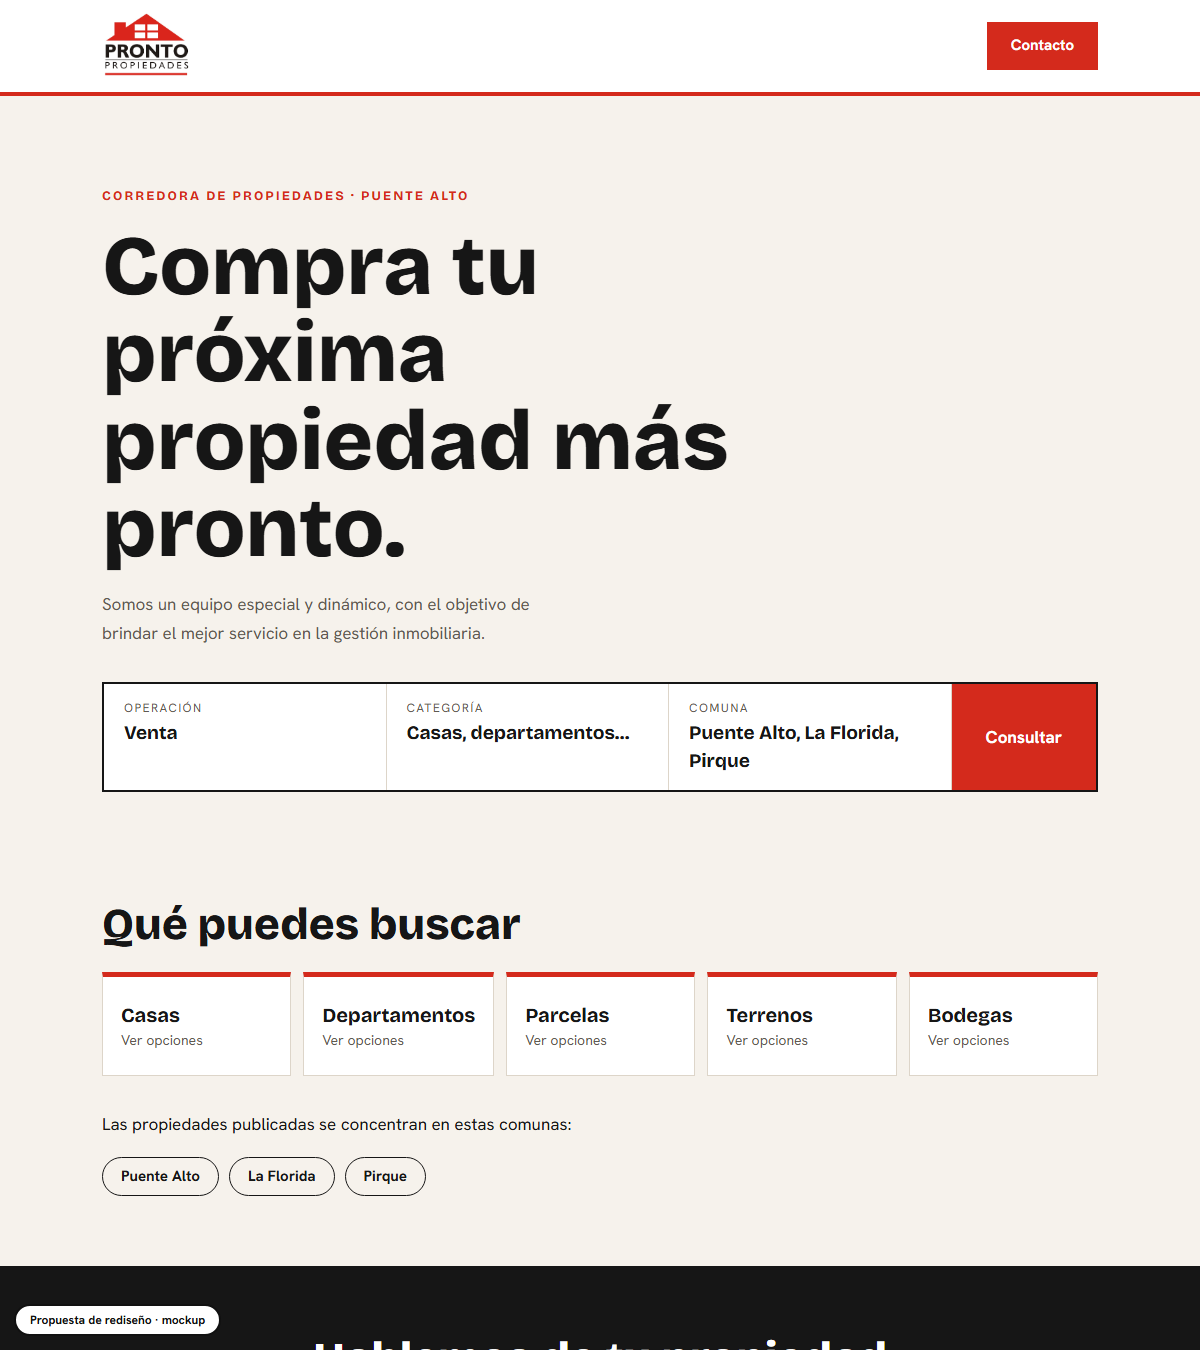
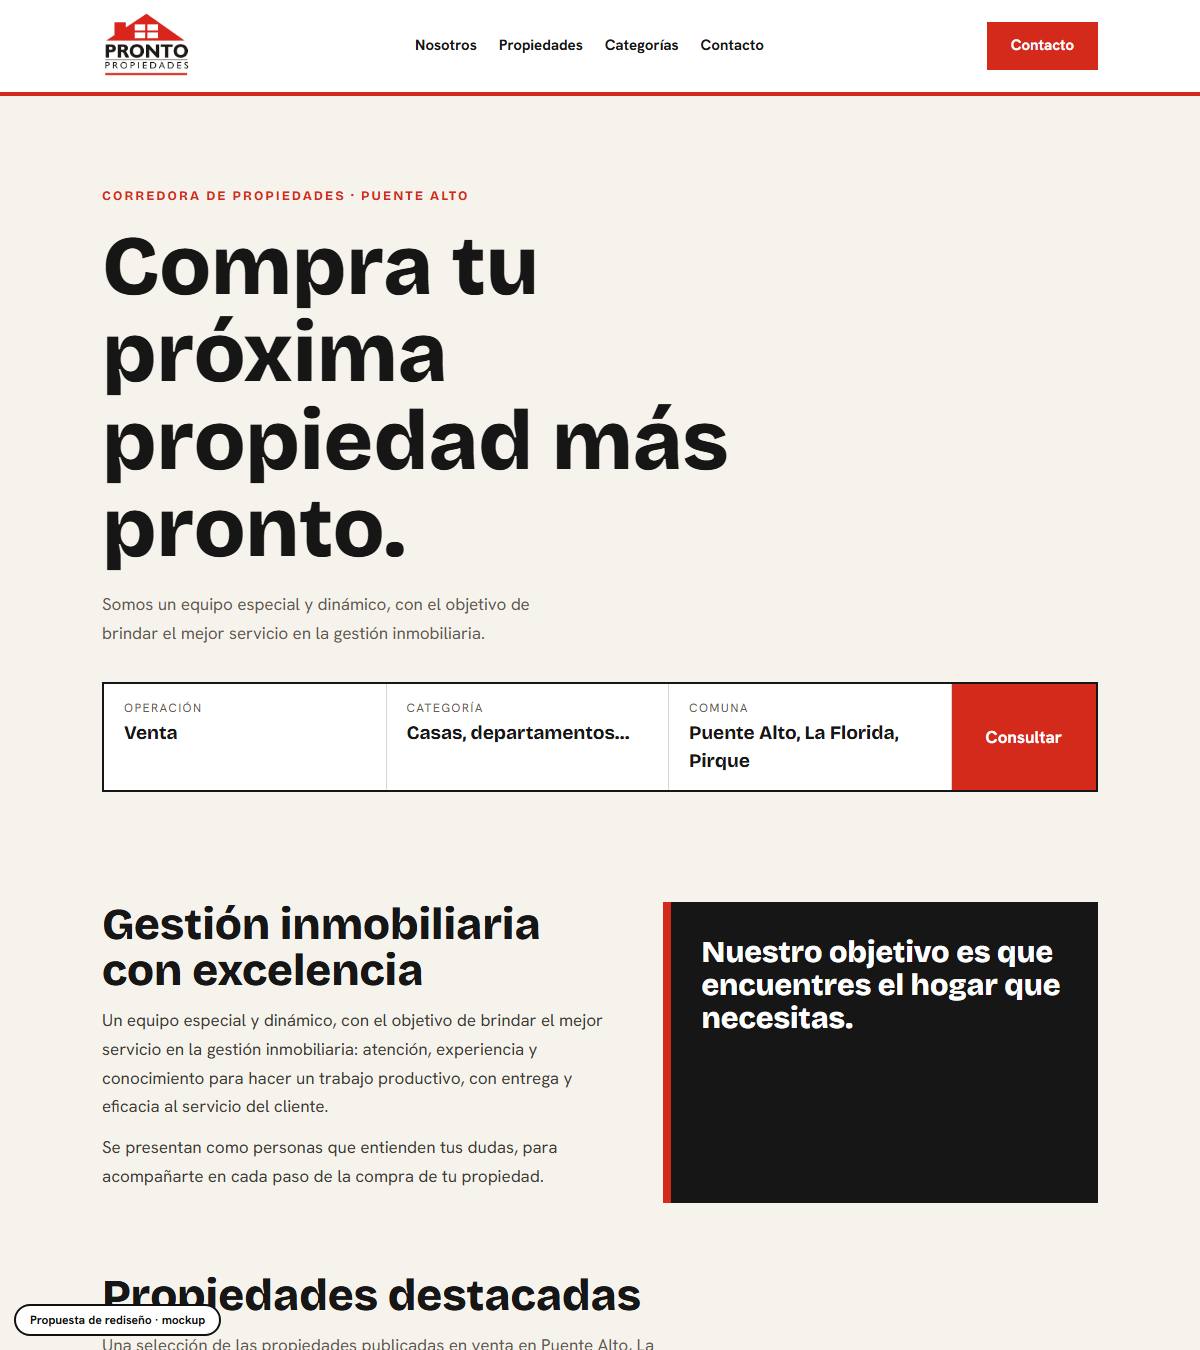
Mockup: pronto-propiedades-puente-alto

diff --git a/pronto-propiedades-puente-alto/index.html b/pronto-propiedades-puente-alto/index.html
@@ -6,12 +6,12 @@
 <link href="https://fonts.googleapis.com/css2?family=Bricolage+Grotesque:wght@500;700;800&family=Hanken+Grotesk:wght@400;500;700&display=swap" rel="stylesheet">
 <style>
 :root{--red:#d42a1c;--ink:#161616;--bone:#f6f2ec;--line:#ddd5c9;--mute:#5f5a52}
-*{box-sizing:border-box;margin:0}html{scroll-behavior:smooth}
+*{box-sizing:border-box;margin:0}html{scroll-behavior:smooth;scroll-padding-top:100px}
 @media(prefers-reduced-motion:reduce){html{scroll-behavior:auto}}
 body{background:var(--bone);color:var(--ink);font:400 17px/1.7 'Hanken Grotesk',sans-serif}
 .wrap{max-width:1040px;margin:0 auto;padding:0 22px}
 h1,h2,h3{font-family:'Bricolage Grotesque',sans-serif;line-height:1.04}
-header{background:#fff;border-bottom:4px solid var(--red)}header .wrap{display:flex;justify-content:space-between;align-items:center;height:92px;gap:12px}
+header{position:sticky;top:0;z-index:20;background:#fff;border-bottom:4px solid var(--red)}header .wrap{display:flex;justify-content:space-between;align-items:center;height:92px;gap:12px}
 header img{height:70px}
 header a.b{background:var(--red);color:#fff;text-decoration:none;padding:11px 24px;font-weight:700;font-size:15px}
 header a.b:hover{background:var(--ink)}
@@ -31,14 +31,16 @@ section{padding:70px 0}h2{font-size:clamp(28px,4.2vw,44px);font-weight:800;margi
 .contact a.l{display:block;font:800 clamp(32px,5.6vw,60px) 'Bricolage Grotesque';color:#fff;text-decoration:none;margin:8px 0}.contact a.l:hover{color:var(--red)}
 .contact p{color:#d6d0c6}
 footer{padding:22px 0 90px;text-align:center;font-size:13px;color:var(--mute)}
-.mock{position:fixed;left:14px;bottom:14px;background:#fff;color:#111;border:2px solid #111;font:700 12px/1 'Hanken Grotesk';padding:8px 14px;border-radius:30px;z-index:9}
+.mock{z-index:30;position:fixed;left:14px;bottom:14px;background:#fff;color:#111;border:2px solid #111;font:700 12px/1 'Hanken Grotesk';padding:8px 14px;border-radius:30px;z-index:9}
 @media(max-width:860px){.finder{grid-template-columns:1fr}.finder a{padding:16px 20px}.finder div{border-right:0;border-bottom:1px solid var(--line)}.cats{grid-template-columns:1fr 1fr}.hero .wrap{padding:52px 22px 20px}}
-</style></head><body>
-<header><div class="wrap"><img src="assets/Pronto-Propiedades-Logo.png" alt="Pronto Propiedades"><a class="b" href="#contacto">Contacto</a></div></header>
+nav{display:flex;gap:22px;font-size:15px;font-weight:700}nav a{color:var(--ink);text-decoration:none}nav a:hover{color:var(--red)}.pg{display:grid;grid-template-columns:repeat(4,1fr);gap:14px;margin-top:24px}.pc{background:#fff;border:1px solid var(--line);border-top:5px solid var(--red);padding:22px 20px;display:flex;flex-direction:column}.pc small{font:700 12px "Hanken Grotesk";letter-spacing:.14em;text-transform:uppercase;color:var(--red)}.pc h3{font-size:19px;margin:6px 0 8px}.pc p{font-size:14.5px;color:var(--mute);flex:1}.pc b{font:800 24px "Bricolage Grotesque";margin-top:12px}.disp{display:inline-block;background:var(--ink);color:#fff;font:700 11px "Hanken Grotesk";letter-spacing:.12em;text-transform:uppercase;padding:3px 10px;margin-bottom:10px;align-self:flex-start}.note{margin-top:18px;font-size:14px;color:var(--mute)}.abt{display:grid;grid-template-columns:1.2fr 1fr;gap:40px}.abt p{margin-bottom:12px;color:#403b34}.goal{background:var(--ink);color:#fff;padding:34px 30px;font:800 30px/1.1 "Bricolage Grotesque";border-left:8px solid var(--red)}@media(max-width:900px){nav{display:none}.pg{grid-template-columns:1fr 1fr}.abt{grid-template-columns:1fr}}@media(max-width:520px){.pg{grid-template-columns:1fr}}</style></head><body>
+<header><div class="wrap"><img src="assets/Pronto-Propiedades-Logo.png" alt="Pronto Propiedades"><nav><a href="#nosotros">Nosotros</a><a href="#propiedades">Propiedades</a><a href="#categorias">Categorías</a><a href="#contacto">Contacto</a></nav><a class="b" href="#contacto">Contacto</a></div></header>
 <div class="hero"><div class="wrap"><small>Corredora de propiedades · Puente Alto</small><h1>Compra tu próxima propiedad más pronto.</h1><p>Somos un equipo especial y dinámico, con el objetivo de brindar el mejor servicio en la gestión inmobiliaria.</p>
 <div class="finder"><div><span>Operación</span><b>Venta</b></div><div><span>Categoría</span><b>Casas, departamentos…</b></div><div><span>Comuna</span><b>Puente Alto, La Florida, Pirque</b></div><a href="https://wa.me/56994437770?text=Hola%2C%20busco%20una%20propiedad">Consultar</a></div></div></div>
-<section><div class="wrap"><h2>Qué puedes buscar</h2><div class="cats"><a href="#contacto">Casas<span>Ver opciones</span></a><a href="#contacto">Departamentos<span>Ver opciones</span></a><a href="#contacto">Parcelas<span>Ver opciones</span></a><a href="#contacto">Terrenos<span>Ver opciones</span></a><a href="#contacto">Bodegas<span>Ver opciones</span></a></div>
-<p style="margin-top:34px;max-width:56ch">Las propiedades publicadas se concentran en estas comunas:</p><div class="zones"><span>Puente Alto</span><span>La Florida</span><span>Pirque</span></div></div></section>
+<section id="nosotros"><div class="wrap abt"><div><h2>Gestión inmobiliaria con excelencia</h2><p>Un equipo especial y dinámico, con el objetivo de brindar el mejor servicio en la gestión inmobiliaria: atención, experiencia y conocimiento para hacer un trabajo productivo, con entrega y eficacia al servicio del cliente.</p><p>Se presentan como personas que entienden tus dudas, para acompañarte en cada paso de la compra de tu propiedad.</p></div><div class="goal">Nuestro objetivo es que encuentres el hogar que necesitas.</div></div></section>
+<section id="propiedades" style="padding-top:0"><div class="wrap"><h2>Propiedades destacadas</h2><p style="max-width:60ch;color:var(--mute)">Una selección de las propiedades publicadas en venta en Puente Alto, La Florida, San Bernardo y Pirque.</p><div class="pg"><div class="pc"><small>Casa</small><h3>Arturo Prat, cerca de Salvador Allende · Puente Alto</h3><p>Terreno amplio, casi esquina de Arturo Prat con Salvador Allende.</p><b>$75.000.000</b></div><div class="pc"><small>Casa</small><h3>Av. Luis Matte Oriente · Puente Alto</h3><p>Casa de 2 pisos, 4 dormitorios, 2 baños, living comedor juntos y patio trasero. Parque San Francisco.</p><b>$125.000.000</b></div><div class="pc"><small>Casa</small><h3>Los Enebros, La Foresta · Puente Alto</h3><p>Casa de un piso, pareada por un solo lado.</p><b>$120.000.000</b></div><div class="pc"><small>Casa</small><h3>Cerro Pochoco, Loma Oriente · Puente Alto</h3><p>Casa de 2 pisos. 60 m² de terreno y 46 construidos.</p><b>$61.000.000</b></div><div class="pc"><small>Departamento</small><h3>Vicuña Mackenna 6180, depto. 605 · La Florida</h3><p>Torre C, construido el año 2000. 43 m² totales.</p><b>UF 2.800</b></div><div class="pc"><small>Casa</small><h3>José Sucre, Villa Chena · San Bernardo</h3><p>Casa esquina de un piso.</p><b>$130.000.000</b></div><div class="pc"><small>Casa</small><h3>Los Mañíos, La Foresta · Puente Alto</h3><p>Primer piso con living comedor y cocina. Sin subsidio.</p><b>$105.000.000</b></div><div class="pc"><small>Parcela</small><h3>Casas de Lo Arcaya · Pirque</h3><p>Terreno de 5.000 m², 310 m² construidos y 6 dormitorios, en condominio.</p><b>UF 10.600</b></div></div><p class="note">Catálogo de ejemplo tomado del sitio actual (16 propiedades publicadas). Precios y disponibilidad se confirman con la corredora.</p></div></section>
+<section id="categorias" style="padding-top:0"><div class="wrap"><h2>Qué puedes buscar</h2><div class="cats"><a href="#contacto">Casas<span>Ver opciones</span></a><a href="#contacto">Departamentos<span>Ver opciones</span></a><a href="#contacto">Parcelas<span>Ver opciones</span></a><a href="#contacto">Terrenos<span>Ver opciones</span></a><a href="#contacto">Bodegas<span>Ver opciones</span></a></div>
+<p style="margin-top:34px;max-width:56ch">Las propiedades publicadas se concentran en estas comunas:</p><div class="zones"><span>Puente Alto</span><span>La Florida</span><span>San Bernardo</span><span>Pirque</span></div></div></section>
 <section class="contact" id="contacto"><div class="wrap"><h2>Hablemos de tu propiedad</h2><a class="l" href="https://wa.me/56994437770">+56 9 9443 7770</a><p>También por WhatsApp al +56 9 6218 6704 · Fijo +56 2 2872 7507<br>José Manuel Irarrázaval 0132, Puente Alto<br><a style="color:#fff" href="mailto:contacto@prontopropiedades.cl">contacto@prontopropiedades.cl</a></p></div></section>
 <footer>PRONTO PROPIEDADES · PUENTE ALTO</footer>
 <div class="mock">Propuesta de rediseño · mockup</div></body></html>
